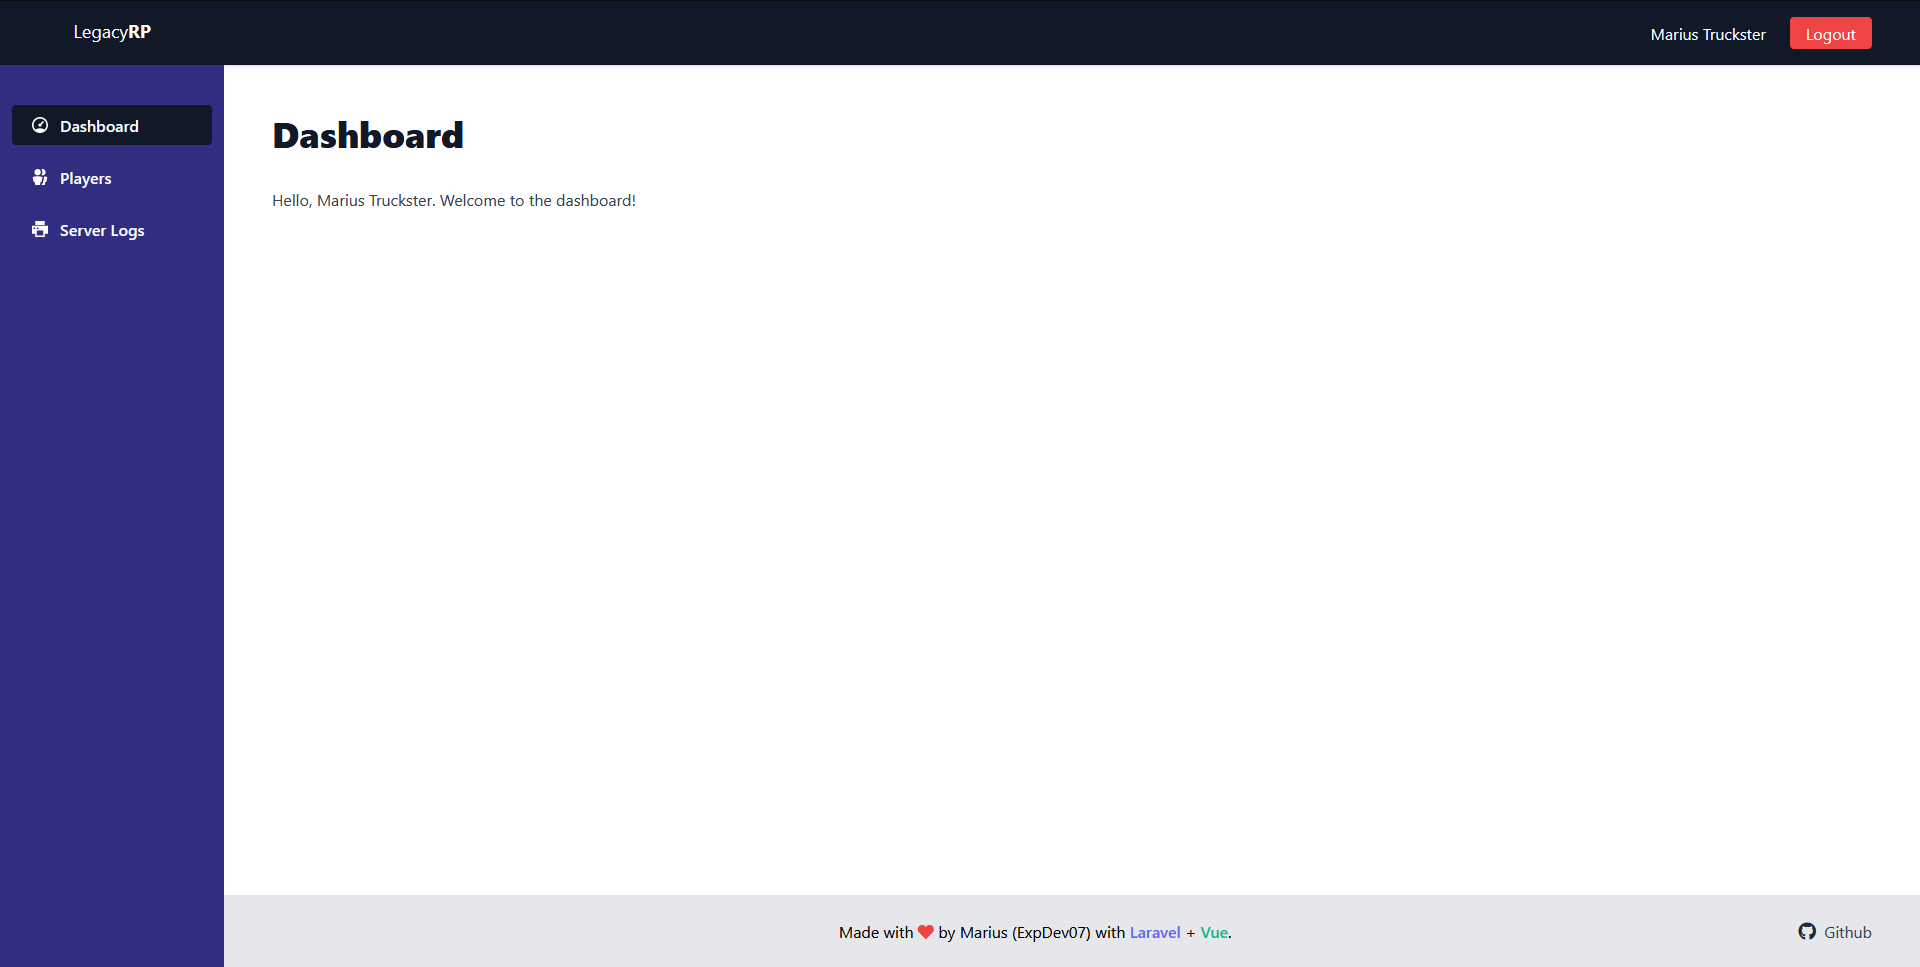
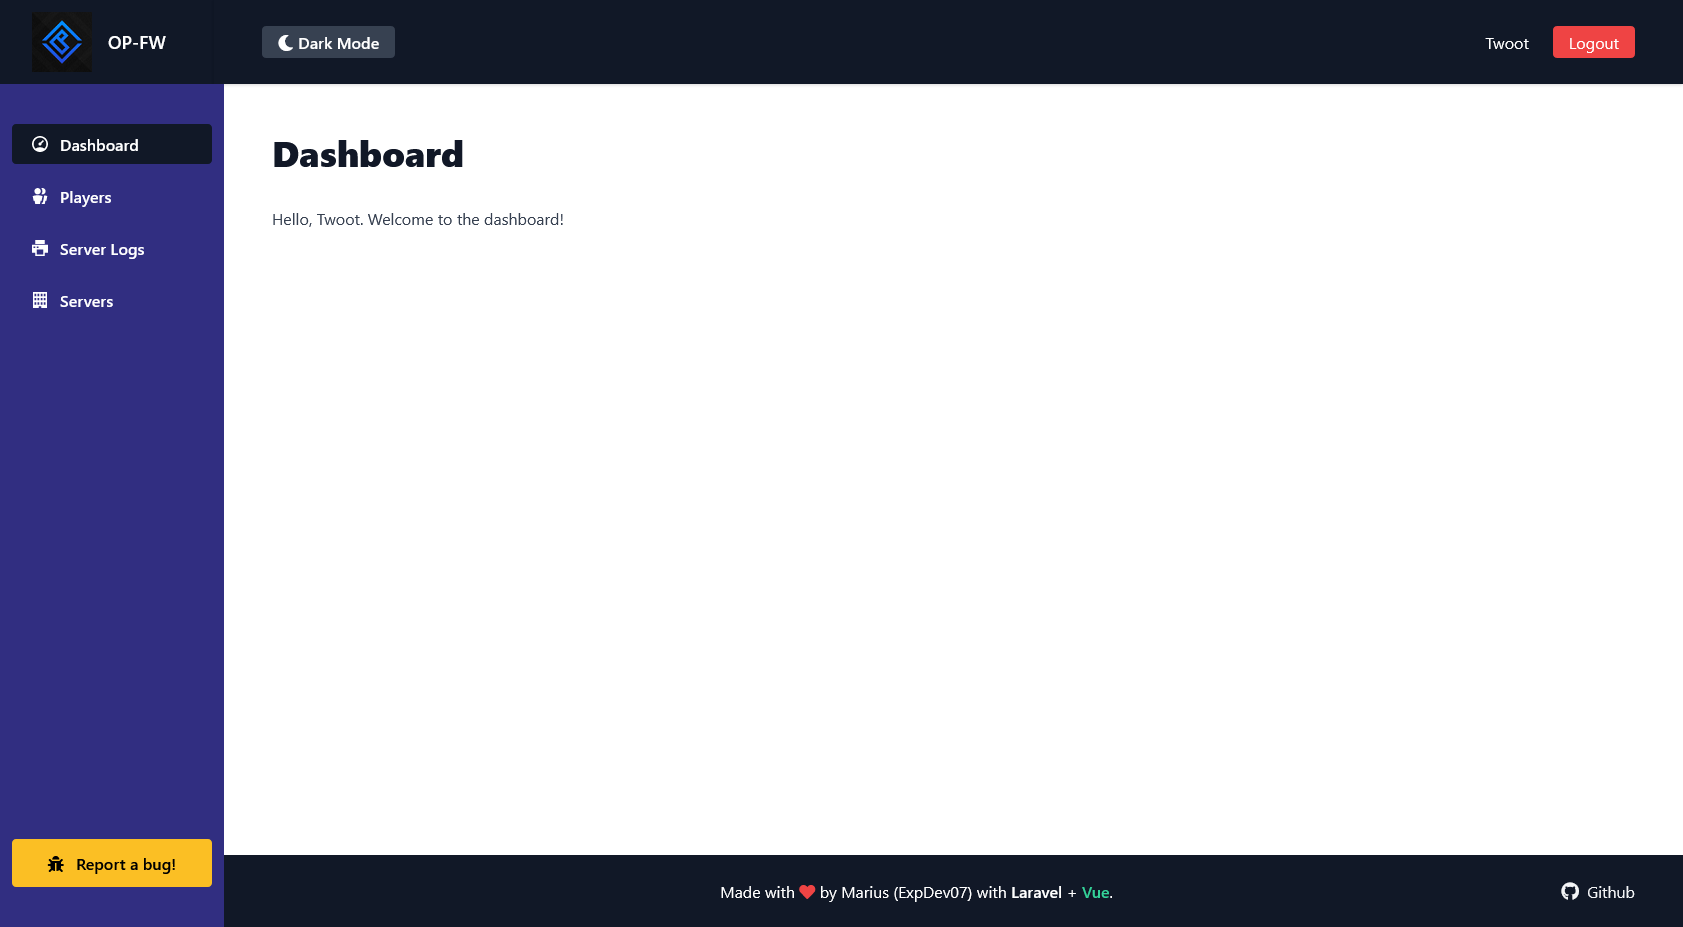
[TESTED] Rebranding and updating of screenshots for README (Issue #67)

Changed region(s): [[0.0, 0.0, 1.0, 1.0], [0.0, 0.302, 0.0618, 0.3323]]

diff --git a/resources/js/Components/Navbar.vue b/resources/js/Components/Navbar.vue
@@ -2,12 +2,13 @@
     <div class="flex">
 
         <!-- Branding / Logo -->
-        <div class="flex-shrink-0 w-56 px-12 py-4 text-center text-white bg-gray-900">
-            <h1 class="text-lg">
-                <inertia-link href="/">
-                    Legacy<span class="font-bold">RP</span>
-                </inertia-link>
-            </h1>
+        <div class="flex-shrink-0 px-8 py-3 text-center text-white bg-gray-900">
+            <inertia-link href="/" class="flex justify-between">
+                <img src="/images/op-logo.png" class="block" />
+                <h1 class="text-lg px-4">
+                    <span class="block py-4">OP-FW</span>
+                </h1>
+            </inertia-link>
         </div>
 
         <!-- Nav -->

diff --git a/resources/views/app.blade.php b/resources/views/app.blade.php
@@ -6,15 +6,15 @@
     <meta name="viewport" content="width=device-width, initial-scale=1.0">
     <meta http-equiv="X-UA-Compatible" content="ie=edge">
     <meta name="author" content="ExpDev07">
-    <meta name="description" content="Legacy Roleplay - Admin Web Panel">
+    <meta name="description" content="Op-Framework - Admin Web Panel">
 
     <!-- Open Graph Protocol -->
-    <meta property="og:title" content="Legacy RP - Web Panel">
+    <meta property="og:title" content="OP-FW - Web Panel">
     <meta property="og:type" content="admin.fivem">
     <meta property="og:image" content="{{ asset('favicon.jpg') }}">
 
     <!-- Page title -->
-    <title>Legacy RP - Admin @yield('title')</title>
+    <title>OP-FW - Admin @yield('title')</title>
 
     <!-- Favicon -->
     <link rel="icon" type="image/png" href="{{ asset('favicon.jpg') }}">

diff --git a/README.md b/README.md
@@ -67,22 +67,25 @@ This list only contains some of the most notable contributors. For the full list
 (more will be posted soon once some design decisions are finalized).
 
 ### Logging in
-<img src="https://github.com/ExpDev07/legacy-rp-admin-v3/raw/master/.github/screenshots/logging_in.PNG" alt="Logging in" />
+![Logging in](.github/screenshots/logging_in.PNG)
 
 ### Dashboard
-<img src="https://github.com/ExpDev07/legacy-rp-admin-v3/raw/master/.github/screenshots/dashboard.PNG" alt="Dashboard" />
+![Dashboard](.github/screenshots/dashboard.PNG)
 
 ### Players
-<img src="https://github.com/ExpDev07/legacy-rp-admin-v3/raw/master/.github/screenshots/players.PNG" alt="Players" />
+![Players](.github/screenshots/players.PNG)
 
 ### Viewing player
-<img src="https://github.com/ExpDev07/legacy-rp-admin-v3/raw/master/.github/screenshots/player.PNG" alt="View Player" />
+![View Player](.github/screenshots/player.PNG)
 
 ### Viewing character
-<img src="https://github.com/ExpDev07/legacy-rp-admin-v3/raw/master/.github/screenshots/character.PNG" alt="View Character" />
+![View Character](.github/screenshots/character.PNG)
 
 ### Server Logs
-<img src="https://github.com/ExpDev07/legacy-rp-admin-v3/raw/master/.github/screenshots/logs.PNG" alt="Logs" />
+![Logs](.github/screenshots/logs.PNG)
+
+### Server List
+![Server List](.github/screenshots/servers.PNG)
 
 ## Contributing
 This section describes how you can help contribute.
